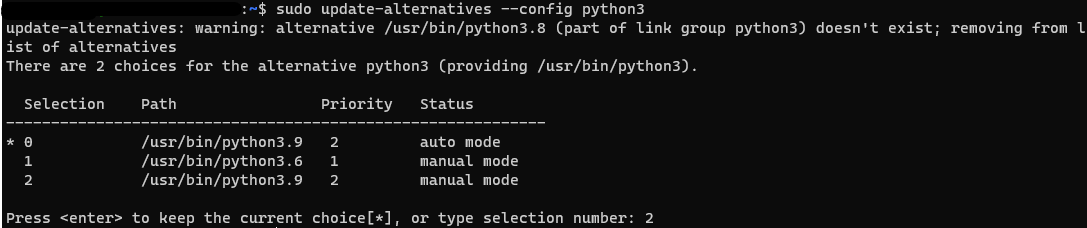
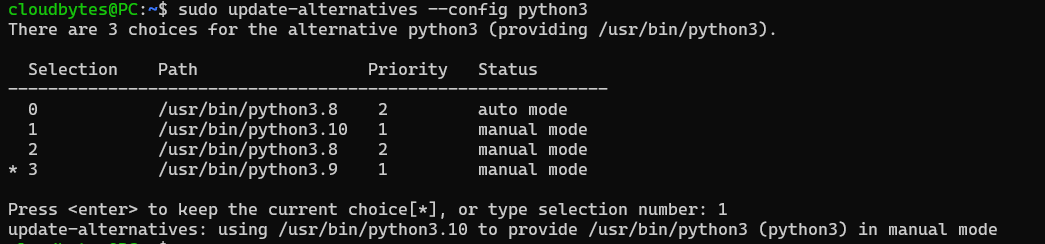
S0022: Updated for v3.10

diff --git a/app/content/articles/0022-upgrade-python-on-linux.md b/app/content/articles/0022-upgrade-python-on-linux.md
@@ -1,9 +1,9 @@
-Title: Upgrade Python to latest version (3.9) on Ubuntu Linux
-Date: 2021-08-29
+Title: Upgrade Python to latest version (3.10) on Ubuntu Linux
+Date: 2021-11-01
 Category: Snippets
 Tags: python
 Author: Rehan Haider
-Summary: A brief guide on how to upgrade Python to the latest version (Python 3.9) on Ubuntu Linux and solve associated issues
+Summary: A brief guide on how to upgrade Python to the latest version (Python 3.10) on Ubuntu Linux and solve associated issues
 Keywords: Linux, Python
 Slug: upgrade-python-to-latest-version-on-ubuntu-linux
 
@@ -24,31 +24,31 @@ sudo add-apt-repository ppa:deadsnakes/ppa
 sudo apt-get update
 ```
 
-Check if Python 3.9 is available by running
+Check if Python 3.10 is available by running
 
 ```bash
-apt list | grep python3.9
+apt list | grep python3.10
 ```
 
-This will produce the below result, if you see python3.9 it means you can install it
+This will produce the below result, if you see python3.10 it means you can install it
 
 ![apt list check if python is present]({static}/images/s0022/apt_list.png)
 
-### Step 2: Install Python 3.9
-Now you can install Python 3.9 by running
+### Step 2: Install Python 3.10
+Now you can install Python 3.10 by running
 
 ```bash 
-sudo apt-get install python3.9
+sudo apt-get install python3.10
 ```
 
-Now though Python 3.9 is installed, if you check the version of your python by running `python3 --version` you will still see an older version. This is because you have two version of Python installed and you need to choose Python 3.9 as the default. 
+Now though Python 3.10 is installed, if you check the version of your python by running `python3 --version` you will still see an older version. This is because you have two version of Python installed and you need to choose Python 3.10 as the default. 
 
-### Step 3: Set Python 3.9 as default
+### Step 3: Set Python 3.10 as default
 To do this you need to add both versions to an alternatives by running the below
 
 ```bash
-sudo update-alternatives --install /usr/bin/python3 python3 /usr/bin/python3.6 1
-sudo update-alternatives --install /usr/bin/python3 python3 /usr/bin/python3.9 2
+sudo update-alternatives --install /usr/bin/python3 python3 /usr/bin/python3.8 1
+sudo update-alternatives --install /usr/bin/python3 python3 /usr/bin/python3.10 2
 ```
 
 Now run 
@@ -56,16 +56,16 @@ Now run
 sudo update-alternatives --config python3
 ```
 
-Choose the selection corresponding to Python3.9 (if not selected by default). 
-![Python alternatives on linux]({static}/images/s0022/apt_list.png)
+Choose the selection corresponding to Python3.10 (if not selected by default). 
+![Python alternatives on linux]({static}/images/s0022/alternatives.png)
 
-Now run `python3 --version` again and you should see the latest Python as the output
+Now run `python3 --version` again and you should see the latest Python as the output.
 
 ## Fix pip and disutils
-Installing the new version of Python will break pip as the `disutils` for Python3.9 is missing. You will see an error similar to the below
+Installing the new version of Python will break `pip` as the `disutils` for Python3.10 is missing. You will see an error similar to the below
 
 ```text
-ImportError: cannot import name 'sysconfig' from 'distutils' (/usr/lib/python3.9/distutils/__init__.py)
+ImportError: cannot import name 'sysconfig' from 'distutils' (/usr/lib/python3.10/distutils/__init__.py)
 ```
 
 Or you might also see an error stating `No module named 'distutils.util'`. 
@@ -78,20 +78,20 @@ sudo apt autoremove
 
 Next to install `disutils`, run the below
 ```bash
-sudo apt install python3.9-distutils
+sudo apt install python3.10-distutils
 ```
 
 Reinstall the latest pip by running
 
 ```bash
 curl https://bootstrap.pypa.io/get-pip.py -o get-pip.py
-python3.9 get-pip.py
+python3.10 get-pip.py
 ```
 
 ### Fix pip-env errors
 Run the following to fix errors similar to `Error: Command '['/path/to/env/bin/python3', '-Im', 'ensurepip', '--upgrade', '--default-pip']' returned non-zero exit status 1`
 ```bash
-sudo apt install python3.9-venv
+sudo apt install python3.10-venv
 ```
 
 ## Fix Python3-apt 
